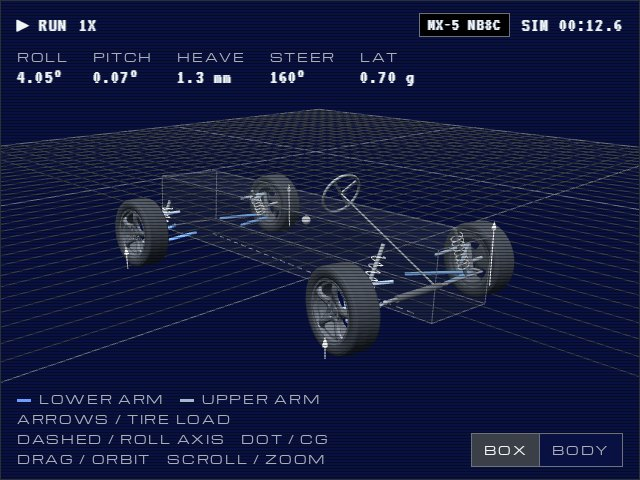
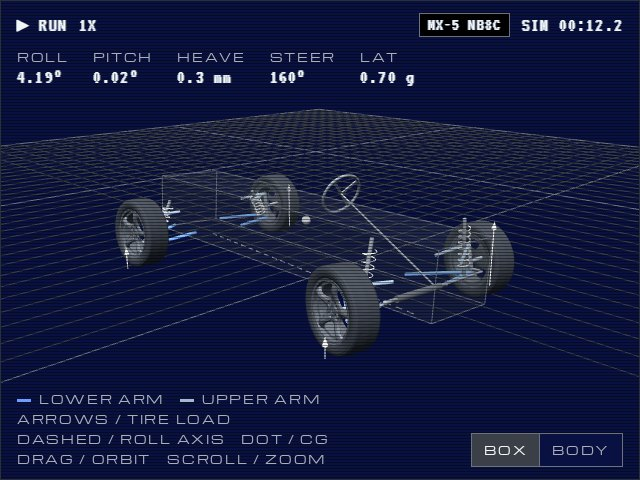
Front shocks: tops 981 mm apart, height from the replacement shock's length
The front shock tops are 981 mm apart (owner's estimate; they were
756 mm apart, fitted). Their height, 640 mm above ground, comes from
the KYB 341253 replacement shock: 530.1 mm fully extended, eye to
stud shoulder, taken to top out at Mazda's 93 mm of droop. The mount
on the lower arm (0.707 of the arm) is refitted to the measured 0.686
motion ratio. The shock now leans 8.7 deg (was 27 deg), so the motion
ratio hardly changes with travel.

Stock: front wheel rate 15.4 -> 13.8 N/mm, ride frequency 1.24 ->
1.17 Hz, roll gradient 5.71 -> 5.90 deg/g. Coen's: wheel rate
37.0 -> 35.0 N/mm, roll gradient 2.65 -> 2.70 deg/g.

Claude-Session: https://claude.ai/code/session_01XaYnxNh97FpaRMzgoeqeMp

diff --git a/index.html b/index.html
@@ -232,7 +232,10 @@
         <tr><td>Front pivots apart, lower / upper</td><td>646 / 736 mm. The NA drawing has 656 / 756 mm.</td><td class="u k">Fitted</td></tr>
         <tr><td>Front pivot heights, lower / upper</td><td>171.8 / 360.6 mm</td><td class="u k">Fitted</td></tr>
         <tr><td>Front upright, ball joint to ball joint</td><td>217.2 mm: the measured heights, leaned to Mazda's 11°39′ kingpin</td><td class="u k">Measured + published</td></tr>
-        <tr><td>Hub face position, kingpin offset, tie rod joints, coilover mounts</td><td>See the Geometry tab</td><td class="u k">Fitted</td></tr>
+        <tr><td>Hub face position, kingpin offset, tie rod joints</td><td>See the Geometry tab</td><td class="u k">Fitted</td></tr>
+        <tr><td>Front shock, top mounts</td><td>981 mm apart (490.5 mm from the centerline). By eye, not measured.</td><td class="u k">Owner's estimate</td></tr>
+        <tr><td>Front shock, top mount height</td><td>640 mm above ground (366 mm above the wheel center). From the replacement shock: KYB 341253 is 530.1 mm long fully extended, eye to stud shoulder, and the shock is taken to top out at Mazda's 93 mm of droop. It is 467 mm long at ride height and leans 8.7°. Its 112 mm stroke is 8 mm short of what Mazda's 175 mm wheel stroke needs at the 0.686 motion ratio, so the mount could be up to 8 mm higher.</td><td class="u k">Parts catalog</td></tr>
+        <tr><td>Front shock, mount on the lower arm</td><td>0.707 of the arm's length from the inner pivot (99 mm inboard of the ball joint), fitted to the 0.686 motion ratio</td><td class="u k">Fitted</td></tr>
         <tr><td>Rear upright, pivot height, hub face, damper mount</td><td>Upright 240 mm between the arm mounts, lower pivot 186.4 mm above ground, hub face 137.9 mm from the kingpin axis, fitted to roll center 120 mm, track 1440 mm and motion ratio 0.721. A rough 230 mm estimate of the upright could not give that roll center with enough droop reach.</td><td class="u k">Fitted</td></tr>
         <tr><td>Front tie rod, outer joint</td><td>105 mm ahead of the kingpin axis and 4 mm outboard of it, fitted to the published full lock with the rack where it is below. A rough 135 mm measurement gave 27° / 25° of lock, so it was not used.</td><td class="u k">Fitted</td></tr>
         <tr><td>Steering rack, inner joints</td><td>50 mm ahead of the lower arm's front pivot and 650 mm apart, in line with the lower arm pivots (646 mm apart). By eye, not measured. Tie rods 340.8 mm.</td><td class="u k">Owner's estimate</td></tr>
@@ -289,7 +292,7 @@
       <li><div><b><i>1</i>Set up the car</b><span>Starter setups: <em>Stock</em> · <em>Coen's</em><br>Input car geometries<br><em>Export</em> or <em>Import</em> setups</span></div>
         <img src="intro-1.jpg?v=c79f25ca" width="640" height="480" alt="The Pause, Settle and Drive buttons, the Stock, Coen's and Session buttons, and the tabs"></li>
       <li><div><b><i>2</i>Steer and load it</b><span>Steering wheel slider · Forces sliders</span></div>
-        <img src="intro-2.jpg?v=a4856ca0" width="640" height="480" alt="The 3D view with the front wheels turned and the body leaning"></li>
+        <img src="intro-2.jpg?v=786a5c86" width="640" height="480" alt="The 3D view with the front wheels turned and the body leaning"></li>
       <li><div><b><i>3</i>Test turn-in</b><span><em>Drive</em>: On<br>Assess turn-in reaction and grip limits of moving car</span></div>
         <img src="intro-3.jpg?v=7f1d9523" width="640" height="480" alt="The Drive button lit, and the Forces tab with the steady speed, steering wheel and Step steer controls"></li>
     </ol>
@@ -300,7 +303,7 @@
 <script src="three.min.js"></script>
 <script src="OrbitControls.js"></script>
 <script src="body-model.js?v=3635bb84"></script>
-<script src="core.js?v=01fbb336"></script>
+<script src="core.js?v=2e0296a6"></script>
 <script src="ui.js?v=b33cecb8"></script>
 </body>
 </html>

diff --git a/core.js b/core.js
@@ -16,8 +16,12 @@ const ET_FIT=0.040;      // the wheel offset the hub position was fitted with (M
      192.1 mm apart in height), rear arms (lower 393.7 mm, upper 212.7 mm).
    MEASURED by others: spring motion ratios 0.686 / 0.721; static stability factor 1.59 (NHTSA), CG 449 mm for the whole car.
    FITTED so the model reproduces the published numbers: front inner pivot positions, all pivot heights, rear upright (240 mm),
-     spindle and hub-face positions, tie rod outer joint (full lock 38° / 33°), rack height (least bump steer), coilover mount positions.
-   OWNER'S ESTIMATE, not measured: the rack's inner joints are 50 mm ahead of the lower arm's front pivot and 650 mm apart, in line
+     spindle and hub-face positions, tie rod outer joint (full lock 38° / 33°), rack height (least bump steer), rear coilover mounts, and the front
+     coilover's mount on the lower arm (0.707 of the arm, from the 0.686 motion ratio).
+   FROM THE REPLACEMENT SHOCK: front top mount height 640.3 mm. KYB 341253 (1999-2005 front) is 530.1 mm long fully extended, eye to
+     stud shoulder, and the shock is taken to top out at Mazda's 93 mm of droop. Its 112 mm stroke is 8 mm short of what Mazda's 175 mm
+     wheel stroke needs at 0.686, so this height could be up to 8 mm low.
+   OWNER'S ESTIMATE, not measured: the front shock tops are 981 mm apart; the rack's inner joints are 50 mm ahead of the lower arm's front pivot and 650 mm apart, in line
      with the lower arm pivots (646 mm apart).
    ESTIMATES: unsprung mass, roll, pitch and yaw inertia, tire rate, anti-roll bar rates, front weight share, and every tire grip
      number (typical values for the kind of tire, not measured).
@@ -38,7 +42,7 @@ function stockCar(){
     steer:{c:0.0465,rmax:0.0605,speed:60/3.6,link:0,cut:0,cutL:0.020},
     ax:[
       {g:{Ll:0.3366,Lu:0.25,Lk:0.2172,yli:0.3232,zli:0.1718,yui:0.368,zui:0.3606,xlf:-0.0258,xlr:-0.3508,xuf:0.0881,xur:-0.1319,ee:0.13,hsp:0.0805,hf:0.1057,xk:0.0086,rimD:0.381,rimW:0.1524,et:0.040,sp:0,tw:0.195,ar:0.50,pk:180000,R:0.274,tmu:0.95,tls:6e-5,tca:0.20,tcg:0.012,tgo:2,inc:11.712479,cadj:0,caster:5.6667,toe:0.15,kt:185000,
-          xto:0.1011,yto:0.6567,zto:0.215,xti:0.0242,yti:0.325,zti:0.2001,fMount:0.777,ydm:0.378,zdm:0.5825,bump:0.082,droop:0.093},
+          xto:0.1011,yto:0.6567,zto:0.215,xti:0.0242,yti:0.325,zti:0.2001,fMount:0.707,ydm:0.4905,zdm:0.6403,bump:0.082,droop:0.093},
        s:{k:28440,arb:8000,cbl:3430,cbh:1080,vkb:0.1,crl:6080,crh:2600,vkr:0.1}},
       {g:{Ll:0.3937,Lu:0.2127,Lk:0.24,yli:0.2439,zli:0.1864,yui:0.3873,zui:0.3785,xlf:0.0982,xlr:-0.2222,xuf:0.0657,xur:-0.0989,ee:0.132,hsp:0.1074,hf:0.1379,xk:0,rimD:0.381,rimW:0.1524,et:0.040,sp:0,tw:0.195,ar:0.50,pk:180000,R:0.274,tmu:0.95,tls:6e-5,tca:0.20,tcg:0.012,tgo:2,inc:8.046475,cadj:0,caster:0,toe:0.15,kt:185000,
           fMount:0.8735,ydm:0.4397,zdm:0.465,bump:0.080,droop:0.096},

diff --git a/README.md b/README.md
@@ -50,7 +50,7 @@ Both are a Mazda MX-5 NB 1.8 (NB8C). The **Stock** button loads the car as Mazda
 | Measured by others | Motion ratios 0.686 / 0.721 (owner measurement), CG height 449 mm (from NHTSA's static stability factor 1.59) |
 | Measured on the parts | Front arms: lower 336.6 mm from the pivot line to the ball joint, inner pivots 325 mm apart, ball joint 25 mm ahead of the front pivot; upper 250 mm, inner pivots 220 mm apart. Front knuckle: upper ball joint 120.7 mm above the axle, lower ball joint 92.1 mm below it and 88.9 mm in from the wheel face. Rear chassis pivots: lower 243.9 mm and upper 387.3 mm from the centerline, upper 192.1 mm above lower, lower pivots 320.4 mm apart front to back, upper 164.5 mm. Rear arms: lower 393.7 mm, upper 212.7 mm. Rear upright: the axle sits 45 % of the way up from the lower arm mount to the upper one (photo) |
 | NA drawing values already in this project | Upper pivots 183 mm above lower (188.8 mm on the NB). The drawing's pivot spacings (656 / 756 mm) and 350 mm lower arm are no longer used |
-| Fitted so the model reproduces the numbers above | Front: pivots 646 / 736 mm apart and 171.8 / 360.6 mm above ground, upright 217.2 mm (the measured heights leaned to Mazda's 11°39′ kingpin), spindle and hub-face positions, tie rod outer joint 105 mm ahead of the kingpin axis and 4 mm outboard of it (full lock 38° / 33°; a rough 135 mm measurement gave 27° / 25° and was not used), rack height 200.1 mm (least bump steer: 0.05° of toe-out at 30 mm of bump is left), coilover mount. The rack's inner joints are an owner's estimate, not a measurement: 50 mm ahead of the lower arm's front pivot and 650 mm apart, in line with the lower arm pivots (646 mm apart). Rear: upright 240 mm (a rough 230 mm estimate could not give the roll center with enough droop reach), lower pivot 186.4 mm above ground, hub face 137.9 mm, damper mount 0.874 along the arm, fitted to the 120 mm roll center, 1440 mm track and 0.721 motion ratio |
+| Fitted so the model reproduces the numbers above | Front: pivots 646 / 736 mm apart and 171.8 / 360.6 mm above ground, upright 217.2 mm (the measured heights leaned to Mazda's 11°39′ kingpin), spindle and hub-face positions, tie rod outer joint 105 mm ahead of the kingpin axis and 4 mm outboard of it (full lock 38° / 33°; a rough 135 mm measurement gave 27° / 25° and was not used), rack height 200.1 mm (least bump steer: 0.05° of toe-out at 30 mm of bump is left), coilover mount on the lower arm (0.707 of the arm from the inner pivot, from the 0.686 motion ratio). The rack's inner joints are an owner's estimate, not a measurement: 50 mm ahead of the lower arm's front pivot and 650 mm apart, in line with the lower arm pivots (646 mm apart). The front shock tops are also an owner's estimate, 981 mm apart; their height, 640 mm above ground, comes from the replacement shock (KYB 341253: 530.1 mm fully extended, eye to stud shoulder), taken to top out at Mazda's 93 mm of droop. Rear: upright 240 mm (a rough 230 mm estimate could not give the roll center with enough droop reach), lower pivot 186.4 mm above ground, hub face 137.9 mm, damper mount 0.874 along the arm, fitted to the 120 mm roll center, 1440 mm track and 0.721 motion ratio |
 | Estimates | Unsprung mass 32 kg per corner, front weight share 52 %, inertias (yaw 1400 kg·m²), tire rate 185 N/mm, anti-roll bar rates 8.0 / 1.4 N/mm, and every tire grip number (typical street tires on Stock, typical sporty street tires on Coen's) |
 
 Checks that were not used in the fit: with the lower pivot 5.8 mm higher (the NA position) the model's front roll center is 62.5 mm (Mazda's NA figure: 61 mm), and with the NA's 4°26′ caster the trail is 11.6 mm (Mazda: 11.6 mm). The turning radius at the outer front tire is 4.49 m (Mazda: 4.6 m).
